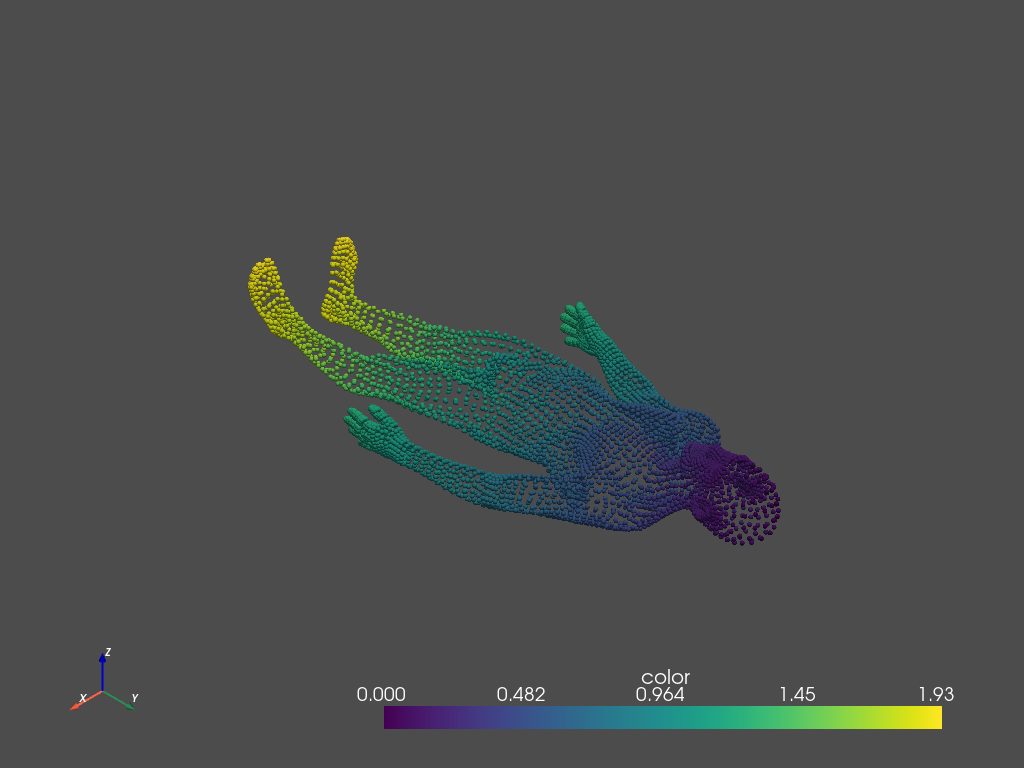
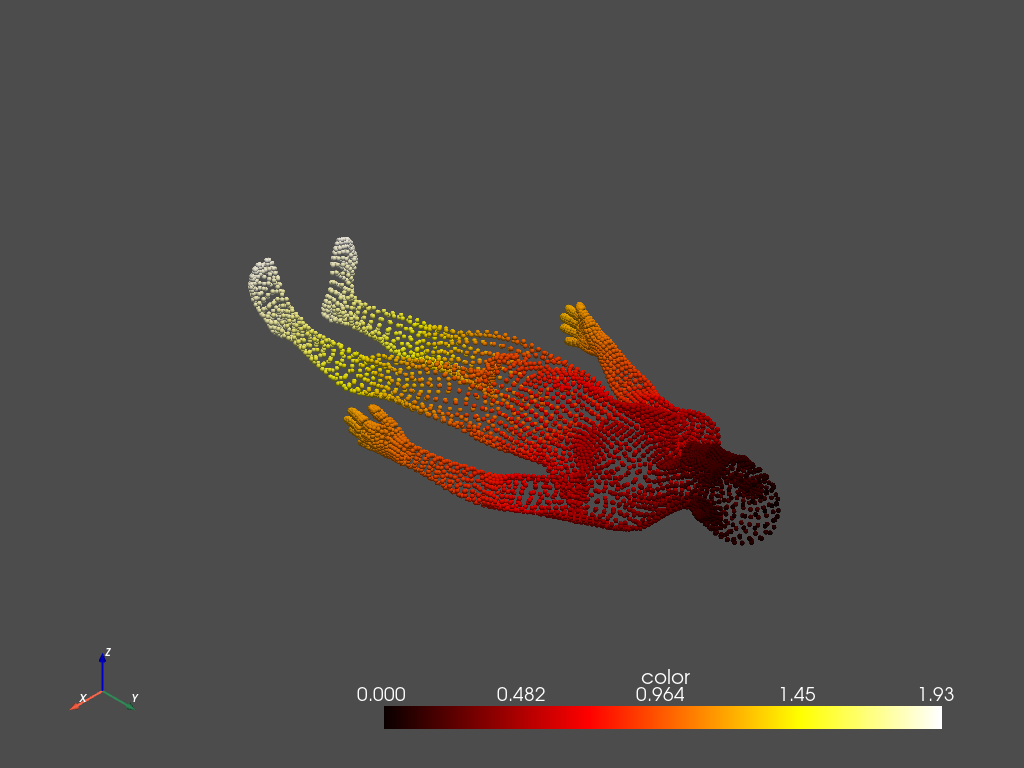
HW3 - Final version

Changed region(s): [[0.2188, 0.3125, 0.7812, 0.7188], [0.375, 0.9062, 0.9375, 0.9688]]

diff --git a/HW3/Q1.py b/HW3/Q1.py
@@ -62,21 +62,25 @@ def Graph_adj(data):
     """
     graph = nx.Graph()
     rows, colums = data.shape
-    N = np.prod(data.shape)
+    N_element = rows * colums
 
-    data_as_vec = data.flatten()
-    neighbours = np.asarray([(-1, -1), (-1, 0), (-1, 1), (0, -1), (0, 1), (1, -1), (1, 0), (1, 1)], dtype=np.int)
+    data_as_vec = data.flatten() #Copy data array to new indexing array
+    # Build neighbour like array with indexing
+    neighbours = np.asarray(
+        [(-1, -1), (-1, 0), (-1, 1), (0, -1), (0, 1), (1, -1), (1, 0), (1, 1)],
+        dtype=np.int)
 
-
-    for i in range(N):
+    for i in range(N_element):
+        # Condisder i as vertices, find the j vertices to connet i and create edge
         if data_as_vec[i] == 1:
             position = np.asarray([i // colums, i % colums]) + neighbours
-            position = np.clip(position , (0,0), (rows - 1,colums - 1))
+            position = np.minimum((rows - 1,colums - 1), np.maximum(position, (0,0))) #np.clip(position , (0,0), (rows - 1,colums - 1))
             for q, w in position:
                 if data[q, w] == 1:
+                    # find the index of j connected neighbour
                     j = int(q * colums + w)
+                    # Add graph edge between connected vertices
                     graph.add_edge(i, j)
-
     return graph
 
 def MDS(data, n_dim):
@@ -86,13 +90,12 @@ def MDS(data, n_dim):
     :param n_dim: what is the dimentsion we would like to embed
     :return: Reduce dimention with MDS algo.
     """
-
     i, n_feature = data.shape
     H = np.identity(i) - (1 / i) * np.ones_like(data)
     K = -0.5 * (H @ (data**2) @ H)
-    R = spectral_decomp(K, n_dim)
+    Reduce_dim = spectral_decomp(K, n_dim)
 
-    return R
+    return Reduce_dim
 
 def spherical_mds(data, n_dim):
     """
@@ -113,7 +116,6 @@ def spectral_decomp(data,n_dim):
     :param n_dim: SVD for n_dim
     :return: low dimensionality data with SVD decomposition
     """
-
     G_eigenValues, G_eigenVectors = np.linalg.eigh(data)
     idx = (G_eigenValues).argsort()
     G_eigenValues.sort()   # = np.real(G_eigenValues[idx])
@@ -133,11 +135,10 @@ def FarestPointSampling(geodesics_dist, n_dim_compress, init_v):
     :param init_v: the initial point to start with
     :return: array of n_dim_compress vertices --> the farest vertices
     """
-
     vertic_set = [init_v]
-
     for i in range(n_dim_compress - 1):
         reduced = geodesics_dist[:, vertic_set]
+        # Using argmax{min{d(v,s)}}
         v = np.argmax(np.min(reduced, axis=1), axis=0)
         vertic_set.append(v)
 
@@ -159,6 +160,7 @@ def Sec1(path, source, target):
     dx = (1.0,1.0)
     order = 2
 
+    # Using build-in package FFM
     tau_fm = eikonalfm.fast_marching(maze_bw, source, dx, order)
     path_maze = shortest_path(tau_fm,source,target)
     plotting_shortest_path(im_maze, path_maze,'Fast Marching Method',tau_fm)
@@ -215,7 +217,7 @@ def Sec4(path, n_dim = 2, embedding='MDS'):
     #loading numpy matrix
     geodesics_dist = np.load(r'{}.npy'.format(mesh_str))
 
-    Mesh(v=vertices, f=faces).render_pointcloud(geodesics_dist[:, 250], screenshot=mesh_str)
+    render_pointcloud(vertices,geodesics_dist[:, 250], screenshot=mesh_str)
 
     if embedding == 'MDS':
         isometric_embedding_mds = MDS(geodesics_dist, n_dim)
@@ -233,8 +235,7 @@ def Sec4(path, n_dim = 2, embedding='MDS'):
         # loading numpy array matrix
         embbeded_n_dim_geodesic_distance = np.load(r'{}_n_dim_{}.npy'.format(embedding,mesh_str))
 
-        Mesh(v=isometric_embedding_mds, f=faces).render_pointcloud(embbeded_n_dim_geodesic_distance[:, 250],
-                                                                           screenshot=mesh_str +'_'+ embedding)
+    render_pointcloud(isometric_embedding_mds, embbeded_n_dim_geodesic_distance[:, 250],screenshot=mesh_str +'_'+ embedding)
 
     return np.linalg.norm((geodesics_dist - embbeded_n_dim_geodesic_distance), ord='fro')
 
@@ -252,9 +253,9 @@ def Sec5(path, compress_to, init_v):
     n_points, _ = ply.points.shape
 
     # # # Compute the geodesic distance by build-in package
-    # geodesics_dist = gdist.local_gdist_matrix(vertices.astype(np.float64), faces.astype(np.int32))
+    geodesics_dist = gdist.local_gdist_matrix(vertices.astype(np.float64), faces.astype(np.int32))
     # # Saving numpy array
-    # np.save(mesh_str, geodesics_dist.toarray())
+    np.save(mesh_str, geodesics_dist.toarray())
     #loading numpy matrix
     geodesics_dist = np.load(r'{}.npy'.format(mesh_str))
 
@@ -262,7 +263,7 @@ def Sec5(path, compress_to, init_v):
 
     pointcloud = pv.PolyData(vertices)
     mesh_plot.subplot(0,0)
-    mesh_plot.add_mesh(pointcloud, scalars=geodesics_dist)
+    mesh_plot.add_mesh(pointcloud, cmap='hot', scalars=geodesics_dist)
     mesh_plot.add_text('Original Mesh {} vertices'.format(n_points))
 
     for i in range(len(compress_to)):
@@ -273,29 +274,22 @@ def Sec5(path, compress_to, init_v):
 
         pointcloud = pv.PolyData(vertices_reduced)
         mesh_plot.subplot(0, i + 1)
-        mesh_plot.add_mesh(pointcloud, scalars=gdists_reduced)
+        mesh_plot.add_mesh(pointcloud, cmap='hot', scalars=gdists_reduced)
         mesh_plot.add_text('Geo. colored {} vertices'.format(compress_to[i]))
 
     mesh_plot.show(full_screen=True,screenshot='{}_ReducedMesh by FarestPointSampling'.format(mesh_str))
     return
 
-
-class Mesh():
-    def __init__(self, v,f):
-
-        self.v = v
-        self.f = f
-
-    def render_pointcloud(self, func, colormap=None, screenshot='defualt'):
-        """
-        #Rendering only the vertices of mesh as sphees and asign color to rach sphere
-        :param func: Color map weighted function
-        :param colormap: Color pallet
-        :return: Ploting the graph
-        """
-        pointcloud = pv.PolyData(self.v)
-        pointcloud['color'] = func
-        pointcloud.plot(render_points_as_spheres=True, cmap=colormap, screenshot=screenshot)
+def render_pointcloud(v, func, colormap='hot', screenshot='defualt'):
+    """
+    #Rendering only the vertices of mesh as sphees and asign color to rach sphere
+    :param func: Color map weighted function
+    :param colormap: Color pallet
+    :return: Ploting the graph
+    """
+    pointcloud = pv.PolyData(v)
+    pointcloud['color'] = func
+    pointcloud.plot(render_points_as_spheres=True, cmap=colormap, screenshot=screenshot)
 
 if __name__ == '__main__':
     #######################################################
@@ -325,5 +319,4 @@ if __name__ == '__main__':
     # Sec5(r'Resources\tr_reg_000.ply',(1000, 2000, 4000), 120)
     # Sec5(r'Resources\tr_reg_001.ply', (1000, 2000, 4000), 120)
 
-    plt.show()
     print('Finish')

diff --git a/HW3/main.py b/HW3/main.py
@@ -3,10 +3,10 @@ from HW3 import Q1
 if __name__ == '__main__':
     # ######################################################
     # #############------ Section 1 ------##################
-    # source = (383, 814)
-    # target = (233, 8)
-    # Q1.Sec1(r'Resources\maze.png', source, target)
-    #
+    source = (383, 814)
+    target = (233, 8)
+    Q1.Sec1(r'Resources\maze.png', source, target)
+
     # ######################################################
     # #############------ Section 2 ------##################
     # source_pool = (0,0)
@@ -22,11 +22,11 @@ if __name__ == '__main__':
     # #
     # err_MDS_001 = Q1.Sec4(r'Resources\tr_reg_001.ply', n_dim=3, embedding='MDS')
     # err_SMDS_001 = Q1.Sec4(r'Resources\tr_reg_001.ply', n_dim=3, embedding='Spherical MDS')
-    #
+
     # ######################################################
     # #############------ Section 5 ------##################
-    Q1.Sec5(r'Resources\tr_reg_000.ply',(1000, 2000, 4000), 234)
-    Q1.Sec5(r'Resources\tr_reg_001.ply', (1000, 2000, 4000), 234)
+    # Q1.Sec5(r'Resources\tr_reg_000.ply',(1000, 2000, 4000), 234)
+    # Q1.Sec5(r'Resources\tr_reg_001.ply', (1000, 2000, 4000), 234)
 
     # print('err_MDS_000 = {}'.format(err_MDS_000))
     # print('err_SMDS_000 = {}'.format(err_SMDS_000))
